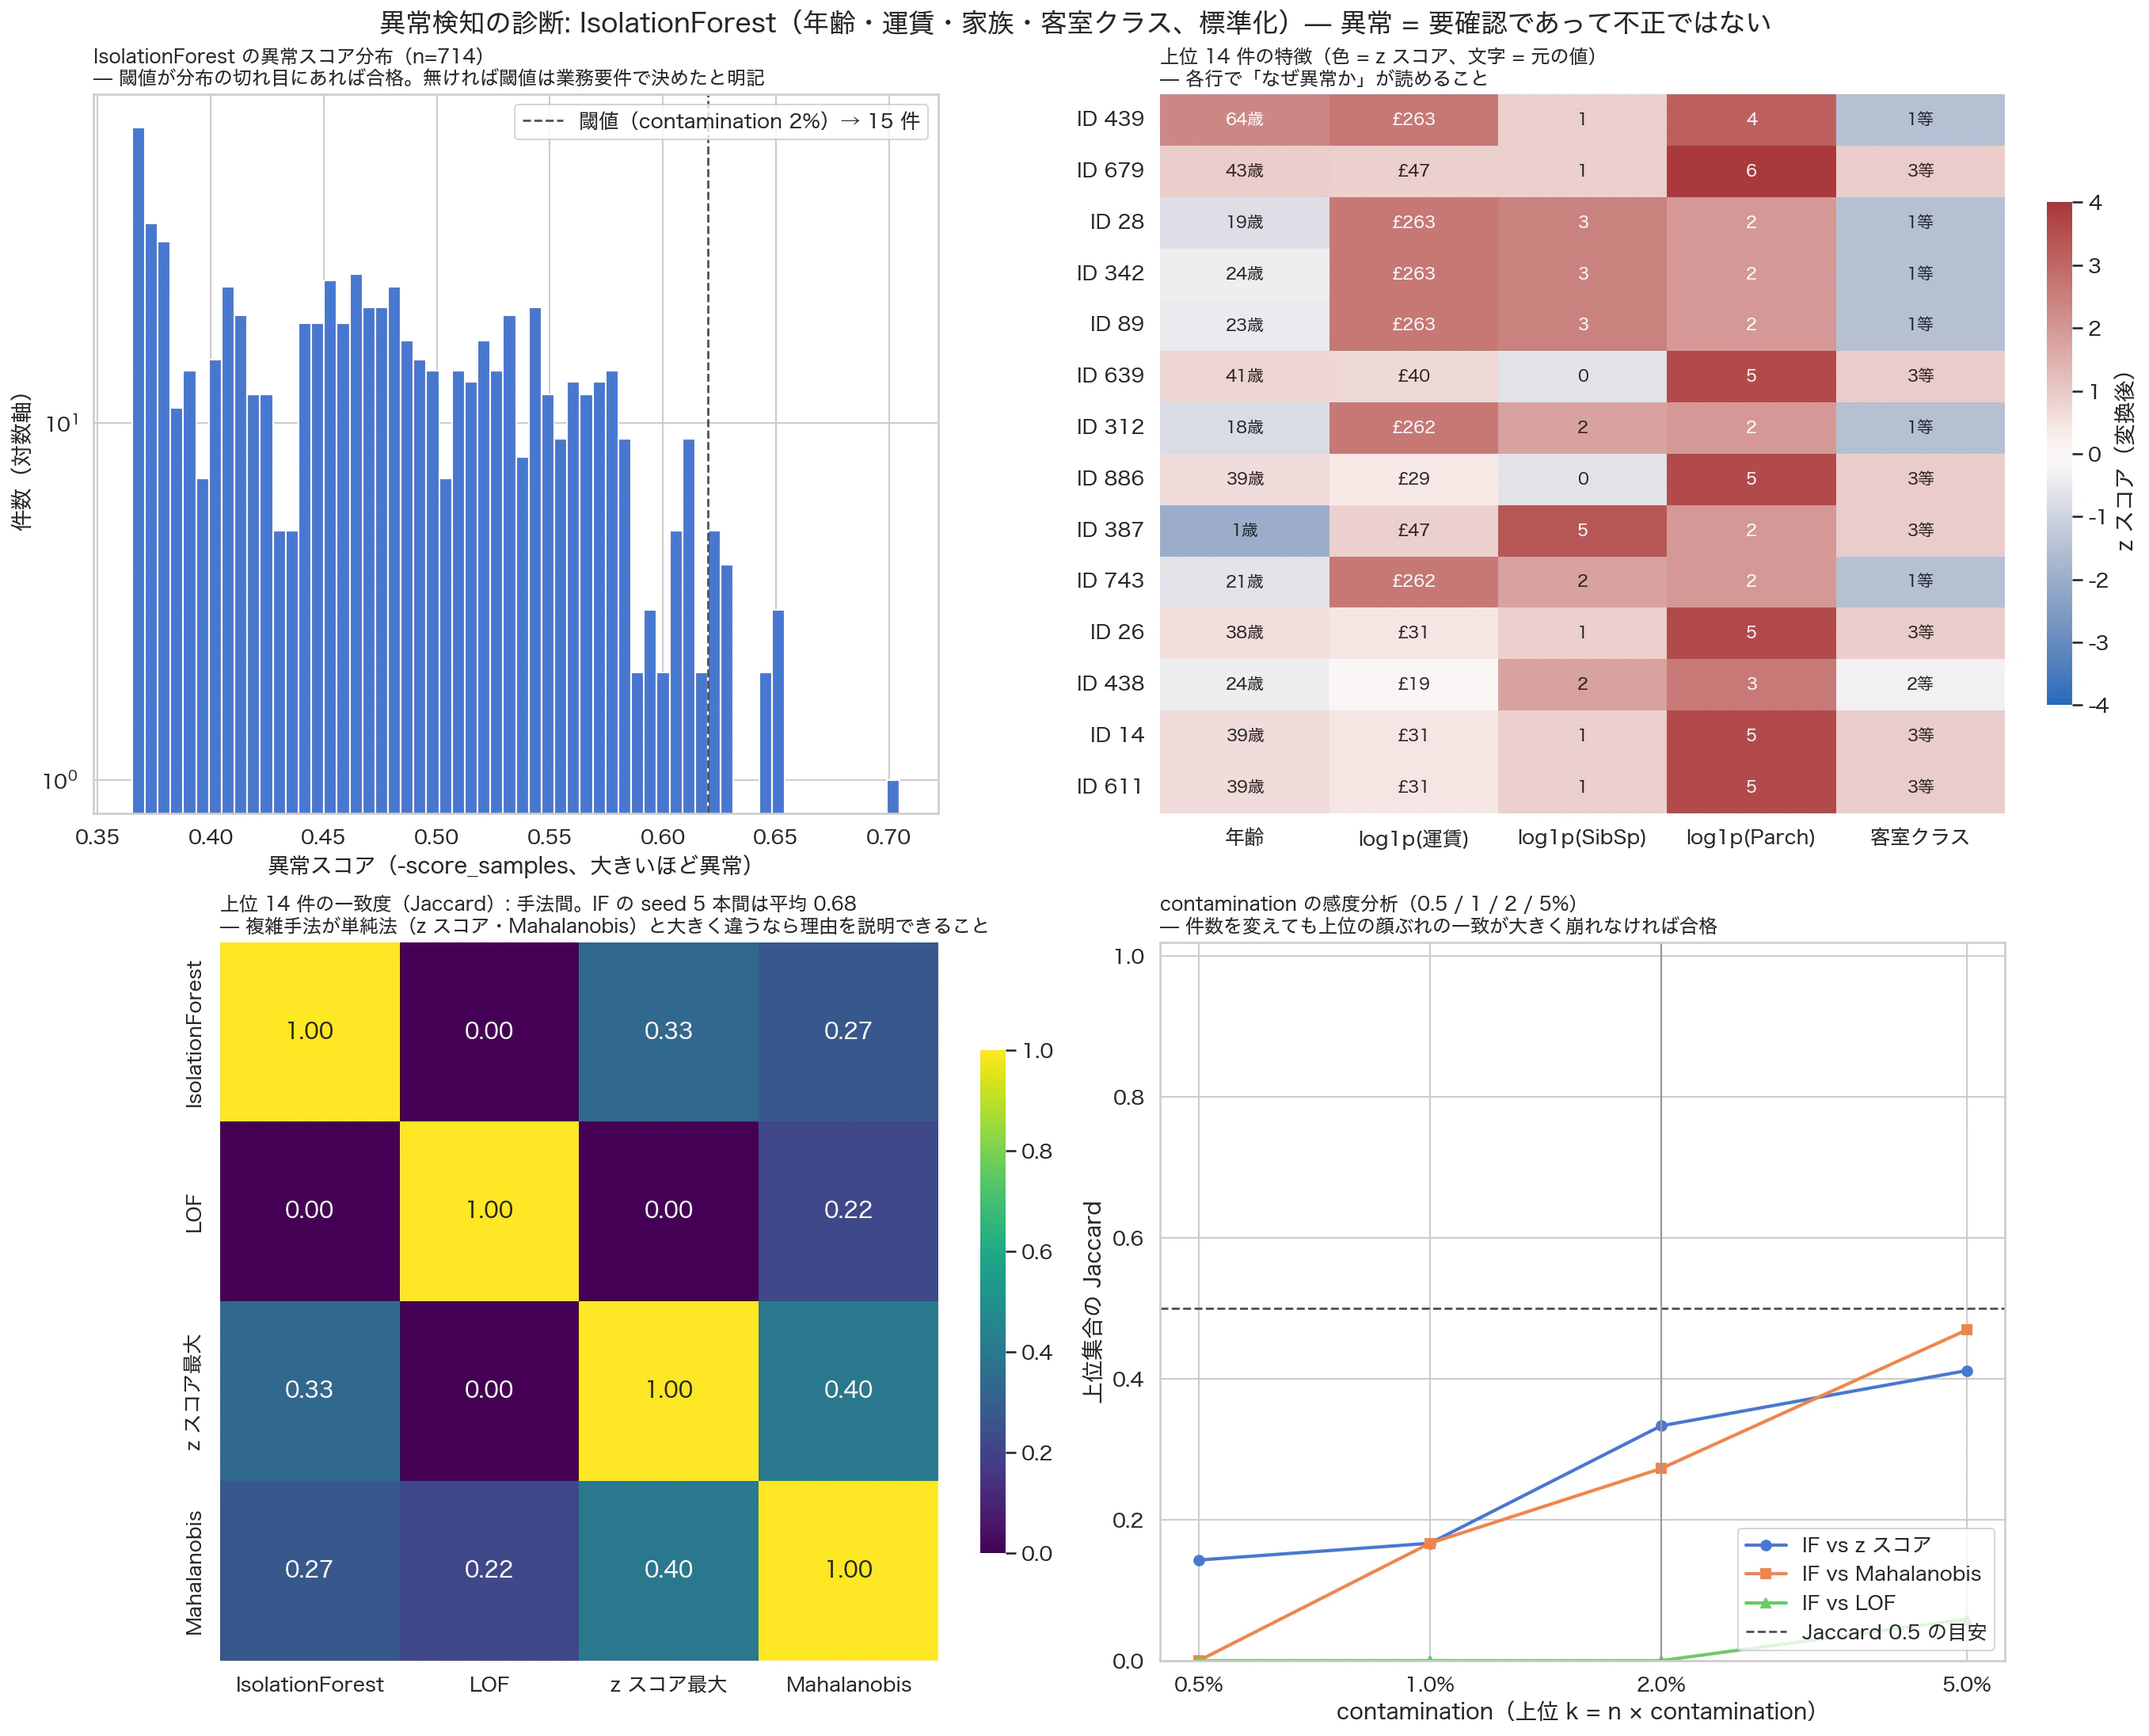
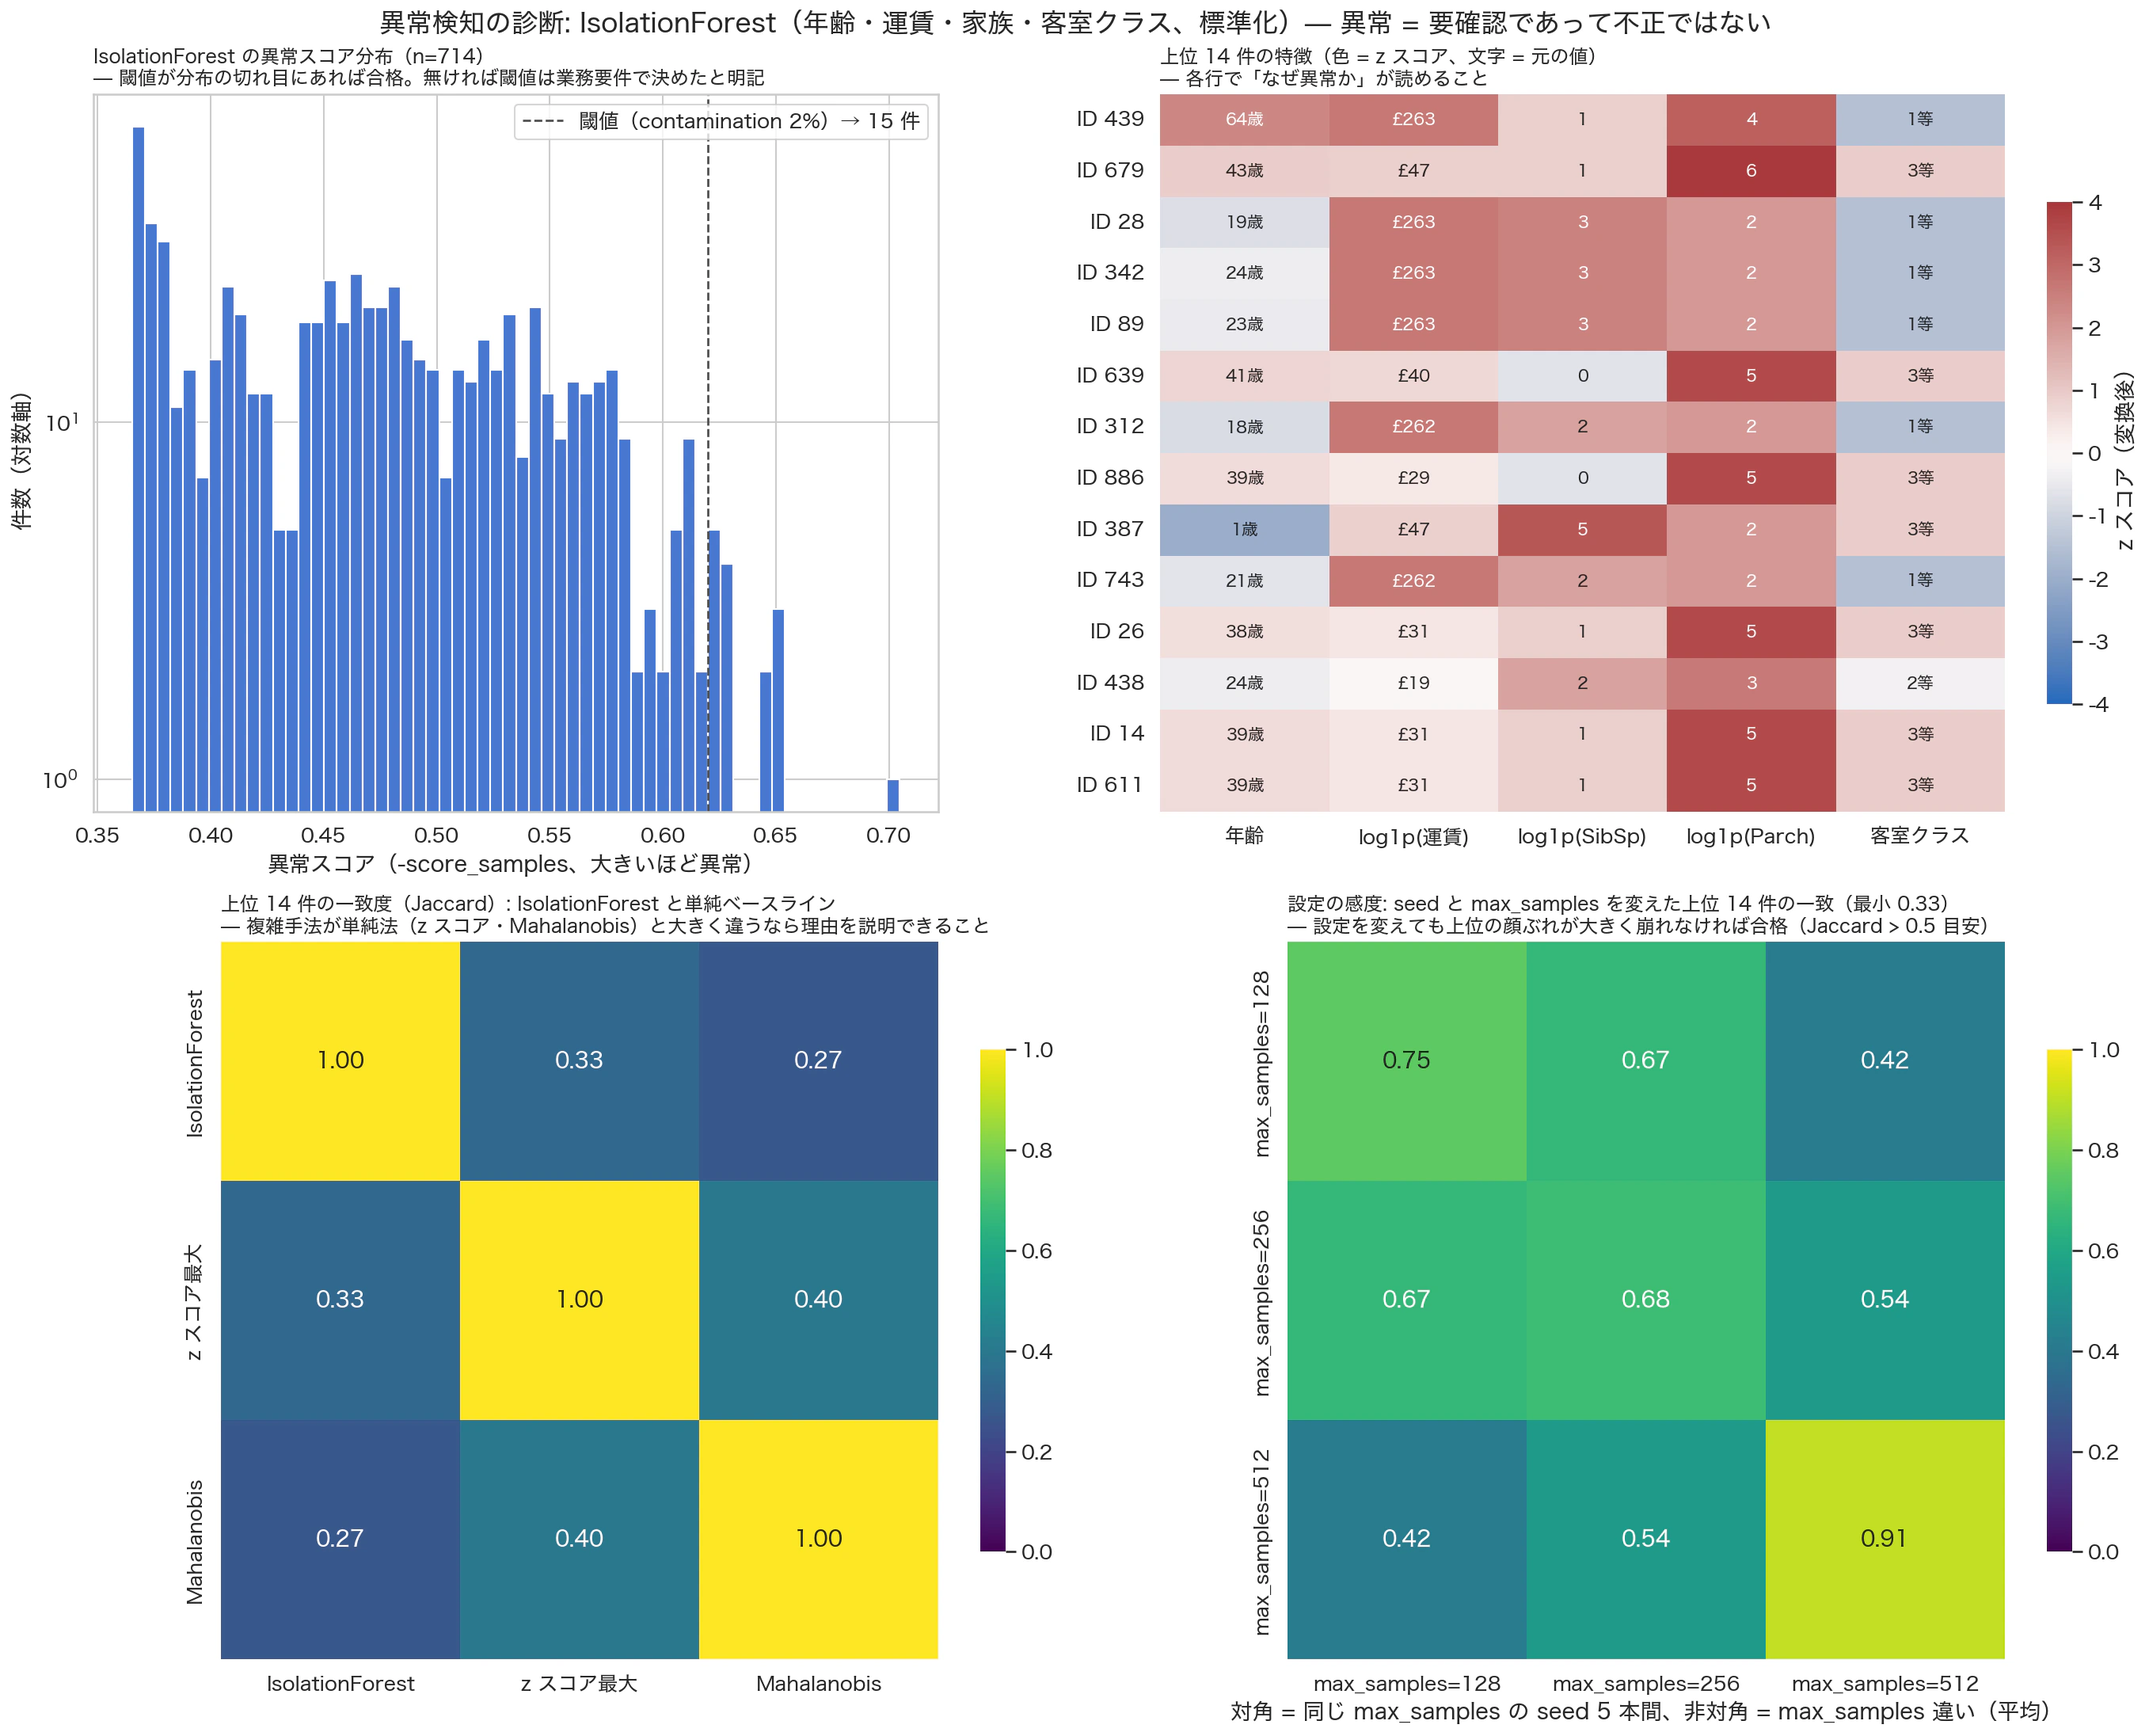
fix: ギャラリーの更新

diff --git a/docs/gallery/index.html b/docs/gallery/index.html
@@ -152,6 +152,7 @@
       <ul>
         <li>題材は Titanic の <code>train.csv</code>（891 人）。生存時間分析のみ lifelines 同梱の Rossi 再犯データです。スキルの動作を示すデモで、データについての結論を出すものではありません。</li>
         <li>図は出力そのままです。基準を満たしている図も、前提が崩れている図も同じように並べています。</li>
+        <li>各手法に並んでいるのは、「題材」に書いた手法を指示したときに出る図だけです。指示していない手法の図（k-means に対する階層クラスタリングのデンドログラムなど）や、行順に意味のないデータでの Durbin-Watson のように前提を満たさない診断は出していません。</li>
         <li>各手法には診断サマリー（診断項目 / 実測値 / 合格基準 / 判定 / 次アクション）があり、ここにはそこから数項目を抜粋しています。</li>
       </ul>
       <ul class="legend">
@@ -191,7 +192,7 @@
               <dt>題材</dt>
               <dd><code>log1p(運賃) ~ 客室クラス + 性別 + 年齢 + SibSp + Parch + 乗船港 + TicketSize</code>（n = 712）</dd>
               <dt>判定</dt>
-              <dd><span class="badge badge--ok">OK 2</span> <span class="badge badge--check">確認 3</span> <span class="badge badge--act">要対処 1</span></dd>
+              <dd><span class="badge badge--ok">OK 1</span> <span class="badge badge--check">確認 3</span> <span class="badge badge--act">要対処 1</span></dd>
             </dl>
           </div>
         </div>
@@ -214,7 +215,7 @@
               <li><span class="badge badge--act">要対処</span><span>Breusch-Pagan p = 9.6e-05（基準 &gt; 0.05）<span class="v-next">HC3 ロバスト SE で再推定</span></span></li>
               <li><span class="badge badge--check">確認</span><span>Cook's D &gt; 4/n が 37 件<span class="v-next">該当行の実データを見て判断</span></span></li>
               <li><span class="badge badge--check">確認</span><span>Shapiro-Wilk p = 1.0e-31<span class="v-next">n = 712 なので中心極限定理で緩和できる</span></span></li>
-              <li><span class="badge badge--ok">OK</span><span>VIF 最大 2.28、Durbin-Watson 2.08</span></li>
+              <li><span class="badge badge--ok">OK</span><span>VIF 最大 2.28（TicketSize）。Durbin-Watson は行順（PassengerId）に意味がないので出していない</span></li>
             </ul>
           </div>
         </div>
@@ -458,7 +459,7 @@
             <ul>
               <li><span class="badge badge--act">要対処</span><span>Schoenfeld: age p = 0.0007、wexp p = 0.0068、全体 χ² = 17.95 (df 7, p = 0.012)<span class="v-next">この 2 変数を層別化して再当てはめ</span></span></li>
               <li><span class="badge badge--check">確認</span><span>ログランク p = 0.0501<span class="v-next">境界なので p で白黒つけず HR と CI で報告</span></span></li>
-              <li><span class="badge badge--check">確認</span><span>HR(fin) = 0.684 [0.470, 0.996]、C-index 0.640（学習データ上）</span></li>
+              <li><span class="badge badge--check">確認</span><span>HR(fin) = 0.684 [0.470, 0.996]、C-index 0.603 ± 0.053（5 分割 CV。学習データ上の 0.640 は楽観側なので採らない）</span></li>
               <li><span class="badge badge--ok">OK</span><span>打ち切り 73.6%（全員が研究終了）、イベント数 / 共変量数 = 16.3</span></li>
             </ul>
           </div>
@@ -739,7 +740,7 @@
       </article>
 
       <!-- 09 モデル解釈 -->
-      <article class="method" id="m-interp" data-method data-verdicts="ok check">
+      <article class="method" id="m-interp" data-method data-verdicts="ok check act">
         <div class="method__head">
           <div class="method__titleline">
             <span class="method__num">09</span>
@@ -751,7 +752,7 @@
               <dt>題材</dt>
               <dd>LightGBM 生存予測の permutation importance・SHAP・PDP / ICE（valid n = 178）</dd>
               <dt>判定</dt>
-              <dd><span class="badge badge--ok">OK 7</span> <span class="badge badge--check">確認 1</span></dd>
+              <dd><span class="badge badge--ok">OK 6</span> <span class="badge badge--check">確認 1</span> <span class="badge badge--act">要対処 1</span></dd>
             </dl>
           </div>
         </div>
@@ -785,7 +786,7 @@
             <p class="verdicts__title">診断サマリーから</p>
             <ul>
               <li><span class="badge badge--ok">OK</span><span>SHAP 加法性の検算 max |差| = 1.1e-14（valid 全件）</span></li>
-              <li><span class="badge badge--ok">OK</span><span>重要度順位の安定性 ρ 平均 0.78（5 fold）、手法間の順位一致 ρ = 0.98</span></li>
+              <li><span class="badge badge--act">要対処</span><span>重要度順位の安定性: fold 間 ρ の最小 0.45（平均 0.78、基準 &gt; 0.7）。手法間の順位一致は ρ = 0.98<span class="v-next">順位は主張せず上位 3 つ（male, Pclass, Fare）の集合として報告</span></span></li>
               <li><span class="badge badge--ok">OK</span><span>|r| &gt; 0.8 のペアなし（最大 0.62、Pclass–Fare）</span></li>
               <li><span class="badge badge--check">確認</span><span>Fare &gt; 100 は valid の 7.3%<span class="v-next">密度の薄い領域の PDP は読まない</span></span></li>
             </ul>
@@ -927,7 +928,7 @@
             <figcaption>
               <span class="fig__file">missing_diagnostics.png</span>
               欠測マトリクス、欠測相関ヒートマップ、群別の欠測率、観測値 vs 代入値の分布比較（平均値代入も併置）、
-              運賃の分布（外れ値候補に印）、相関行列。
+              運賃の分布（外れ値候補に印）、相関行列（Age 欠測を除く完全ケース n = 714。null を含むまま計算すると Age の相関が全部 NaN になる）。
             </figcaption>
           </figure>
           <div class="verdicts">
@@ -1039,7 +1040,7 @@
       </article>
 
       <!-- 15 異常検知 -->
-      <article class="method" id="m-anomaly" data-method data-verdicts="ok check">
+      <article class="method" id="m-anomaly" data-method data-verdicts="ok check act">
         <div class="method__head">
           <div class="method__titleline">
             <span class="method__num">15</span>
@@ -1051,7 +1052,7 @@
               <dt>題材</dt>
               <dd>年齢・運賃・家族構成・客室クラスを標準化して IsolationForest（n = 714、contamination 2%）</dd>
               <dt>判定</dt>
-              <dd><span class="badge badge--ok">OK 3</span> <span class="badge badge--check">確認 4</span></dd>
+              <dd><span class="badge badge--ok">OK 3</span> <span class="badge badge--check">確認 3</span> <span class="badge badge--act">要対処 1</span></dd>
             </dl>
           </div>
         </div>
@@ -1060,19 +1061,20 @@
             <a class="fig__frame" data-figure href="figures/anomaly/anomaly_diagnostics.webp"
                data-caption="異常検知の診断 4 パネル">
               <img src="figures/anomaly/anomaly_diagnostics.webp" width="2714" height="2192" loading="lazy" decoding="async"
-                   alt="異常スコアのヒストグラムと閾値、上位 14 件の特徴量 z スコアヒートマップ、手法間の Jaccard、contamination 感度分析の 4 パネル">
+                   alt="異常スコアのヒストグラムと閾値、上位 14 件の特徴量 z スコアヒートマップ、単純ベースラインとの Jaccard、seed と max_samples を変えた感度分析の 4 パネル">
             </a>
             <figcaption>
               <span class="fig__file">anomaly_diagnostics.png</span>
               異常スコアのヒスト（閾値に縦破線）、上位 14 件の特徴量 z スコア（各行が「なぜ異常か」）、
-              単純ベースラインとの上位集合 Jaccard、contamination を 0.5〜5% と変えた感度分析。
+              単純ベースライン（z スコア・Mahalanobis）との上位集合 Jaccard、seed と max_samples を変えたときの上位集合の一致。
+              contamination は閾値を動かすだけで順位を変えないので、感度分析では振っていません。
             </figcaption>
           </figure>
           <div class="verdicts">
             <p class="verdicts__title">診断サマリーから</p>
             <ul>
               <li><span class="badge badge--ok">OK</span><span>上位 14 件すべてに各特徴の z スコアを付与。Survived は異常ラベルとして使っていない</span></li>
-              <li><span class="badge badge--check">確認</span><span>IF vs LOF の上位集合 Jaccard = 0.00（IF の seed 間は平均 0.68）<span class="v-next">複数手法で共通する行だけを要確認に</span></span></li>
+              <li><span class="badge badge--act">要対処</span><span>seed・max_samples を変えた上位 14 件の Jaccard 最小 0.33（max_samples 128 vs 512。seed 間は 0.68〜0.91）<span class="v-next">どの設定でも上位に入る行だけを要確認に</span></span></li>
               <li><span class="badge badge--check">確認</span><span>スコア分布に明確な切れ目がない<span class="v-next">「件数で決めた」と明記</span></span></li>
               <li><span class="badge badge--check">確認</span><span>単純ベースラインとの Jaccard は z スコア 0.33 / Mahalanobis 0.27。ラベルがなく勝敗は判定できない</span></li>
             </ul>
